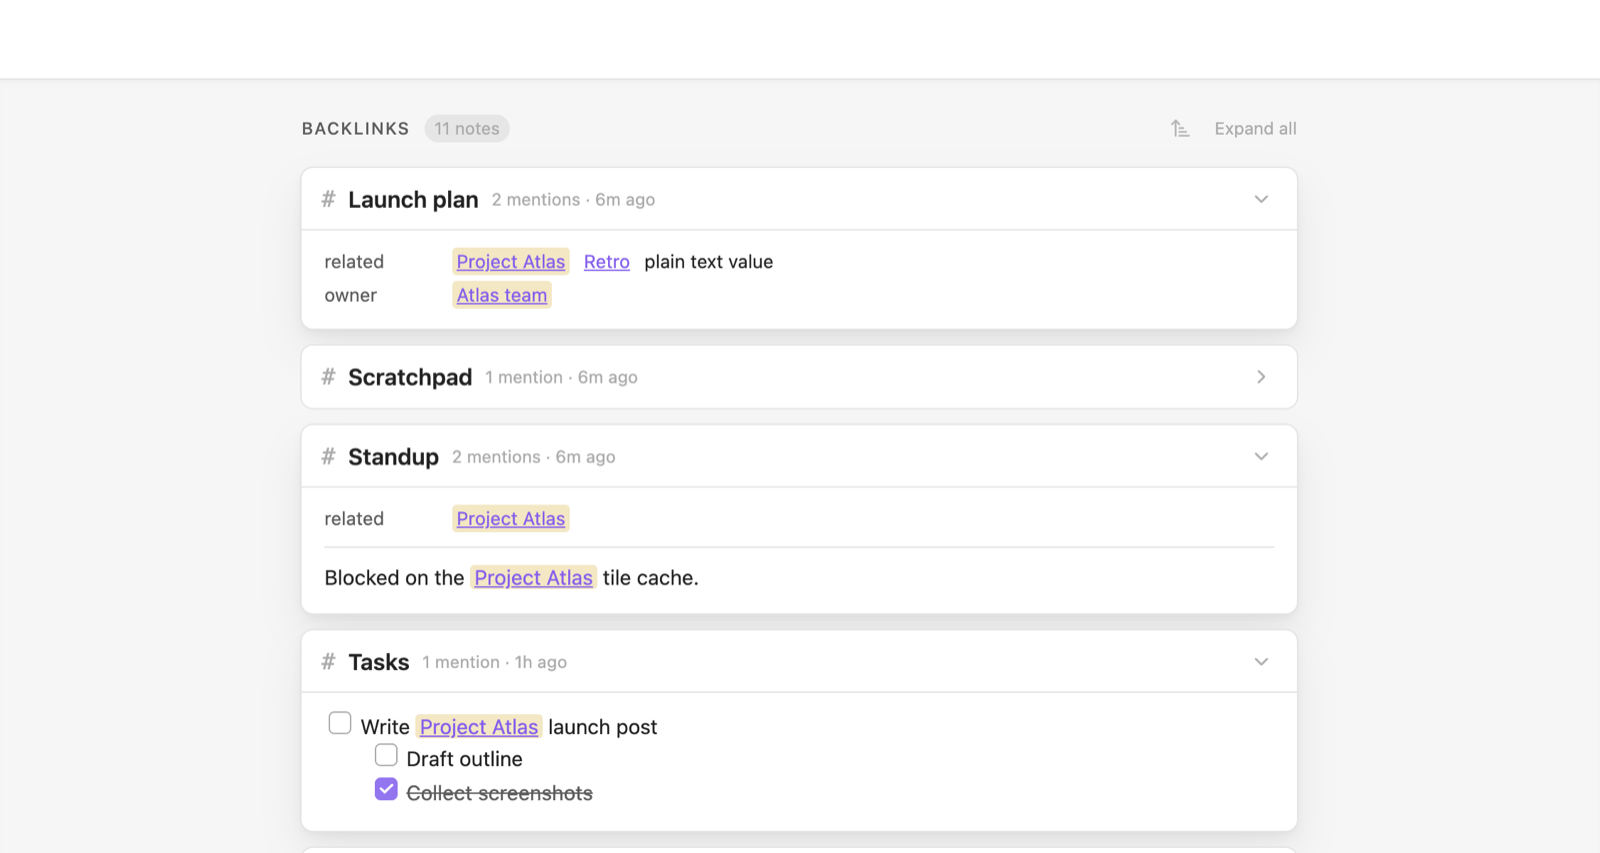
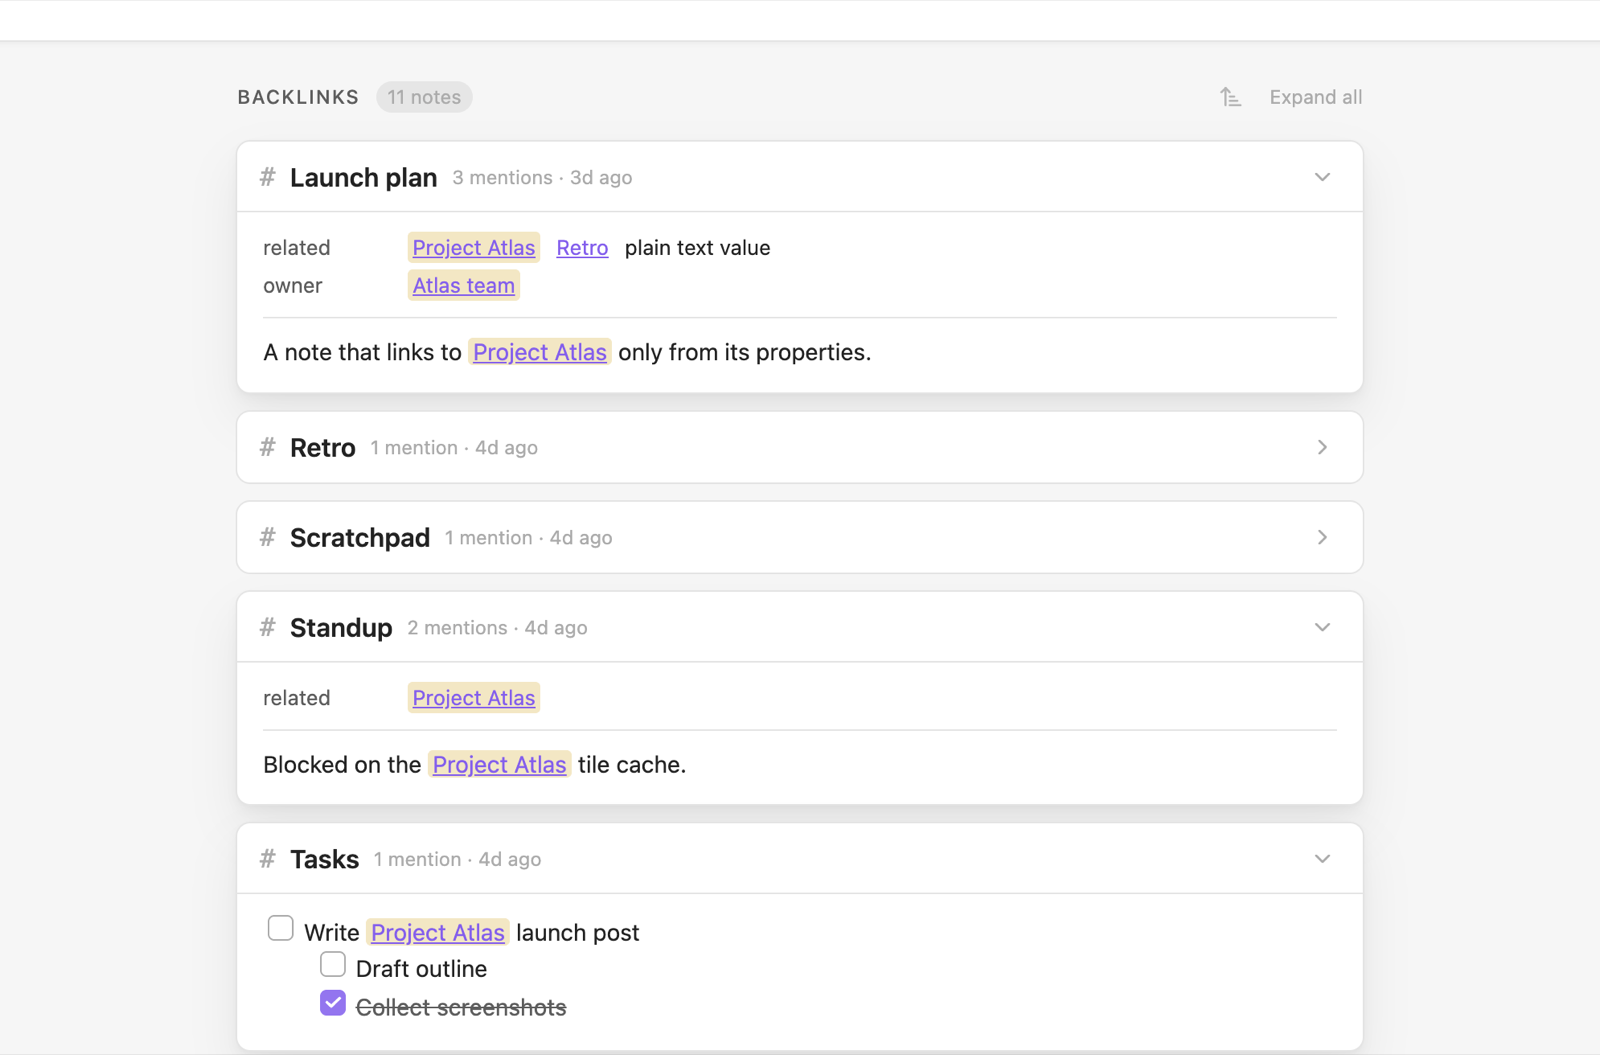
Update the README for all current features
Reorganize around what the plugin shows, where it shows it, how to use
it and its settings. Cover the sidebar, mobile layout, weekly notes and
the current code layout, point installs at the community directory, and
refresh the screenshot and add one of the sidebar.

diff --git a/README.md b/README.md
@@ -1,8 +1,16 @@
 # Better Backlinks
 
-Better Backlinks adds a **Backlinks** section to the bottom of every note. Each note that links to the current note gets a card, and each card shows the **whole block** around the link as rendered markdown, not a one-line search hit.
+Better Backlinks shows each note's backlinks as cards, at the bottom of the note, in a sidebar, or both. Each note that links to the current note gets a card, and each card shows the **whole block** around the link as rendered markdown, not a one-line search hit.
 
 ![The Backlinks section under a note, with cards showing a property row, a paragraph and a task list](images/backlinks.png)
+
+It also finds notes that are related without linking: notes whose title contains this note's name, and notes that mention its name as plain text, with a button to turn each mention into a link. Daily and weekly notes can list the notes created on their day or during their week.
+
+## What it shows
+
+### Backlinks
+
+One card per linking note, however many times it links here. The card shows the block the link sits in:
 
 - A link in a **heading** shows that heading's whole section.
 - A link in a **list item** shows the item and everything nested under it. When the item is nested, its parent items appear above it, dimmed, for context.
@@ -10,78 +18,93 @@ Better Backlinks adds a **Backlinks** section to the bottom of every note. Each 
 - A link in a **property**, such as `related: "[[Project Phoenix]]"`, appears as a row at the top of the card, showing the property's name and all its values.
 - If several links fall in the same block, or one block contains another, they appear once, with every link highlighted.
 
-Notes whose **title contains this note's name** also appear, even if they never link to it. For example, `2026-09-24 Meeting with Joe` appears under the daily note `2026-09-24`. These cards show just the title, with the matching part highlighted and "title match" beside it. The name must appear as a whole word in any case, so a note called `Joe` matches `Meeting with Joe` but not `Joel's plan`. Titles identical to the note's name don't count, and neither do one-character names. If a note also links here, it gets a normal card instead.
+Each card shows how many times the note links here and when it was last modified. Links in code blocks and embeds (`![[...]]`) don't count as backlinks.
 
-### Sidebar
+### Title matches
 
-Everything above is also available in a sidebar, like Obsidian's own Backlinks pane. Open it with **Better Backlinks: Open sidebar** from the command palette, or with the ribbon icon. It opens in the right sidebar, and you can drag it anywhere.
+Notes whose **title contains this note's name** also appear, even if they never link to it. For example, `2026-09-24 Meeting with Joe` appears under the daily note `2026-09-24`. These cards show just the title, with the matching part highlighted.
 
-The sidebar shows the note you're working in and follows you as you switch notes. It works with the bottom section on or off: turn off **Show backlinks section** to see backlinks only in the sidebar. Collapsed cards and sort order are shared between the two, so a card you collapse in one is collapsed in the other.
+The name must appear as a whole word, in any case, so a note called `Joe` matches `Meeting with Joe` but not `Joel's plan`. Titles identical to the note's name don't count, and neither do one-character names. If a note also links here, it gets a normal backlink card instead.
 
 ### Unlinked mentions
 
-Below the backlinks, an **Unlinked mentions** group lists notes that write this note's name as plain text without linking it. For example, "Planning to do x on 2026-09-24 in the evening" appears under the daily note `2026-09-24`. Each card shows the block around the mention, with the text marked by a dashed underline. The cards start collapsed.
+An **Unlinked mentions** group lists notes that write this note's name as plain text without linking it. For example, "Planning to do x on 2026-09-24 in the evening" appears under the daily note `2026-09-24`. Each card shows the block around the mention, with the text marked by a dashed underline. The cards start collapsed.
 
-- **Link** after a mention turns that text into a link, for example `2026-09-24` becomes `[[2026-09-24]]`. Text cased differently from the note's name keeps its wording as the link's display text, so `project atlas` becomes `[[Project Atlas|project atlas]]`. Links follow your vault's link settings (wikilinks or Markdown links, and the path format).
+- **Link** after a mention turns that text into a link: `2026-09-24` becomes `[[2026-09-24]]`. Text cased differently from the note's name keeps its wording as the link's display text, so `project atlas` becomes `[[Project Atlas|project atlas]]`. Links follow your vault's link settings (wikilinks or Markdown links, and the path format).
 - **Link all** on a card links every mention in that note.
 - **Click the marked text** to jump to it in the source note.
 
-Once a note is linked, its card moves up into the backlinks. Mentions are matched the same way as titles (whole words, any case). Text inside existing links, tags, properties, code, URLs, `%% comments %%` and math is ignored. In a large vault the group fills in over a second or so after the note opens, because every note has to be read; the backlinks above it appear straight away.
+Once a note is linked, its card moves up into the backlinks. Mentions are matched like titles (whole words, any case), and text inside existing links, tags, properties, code, URLs, `%% comments %%` and math is ignored. Finding mentions means reading every note, so in a large vault this group fills in over a second or so after the note opens. The backlinks above it appear straight away.
 
-The section scrolls with the note in Live Preview, Source mode and Reading view. On a short note it sits at the bottom of the pane like a footer. It takes every colour and font from your theme, and it's hidden when a note has no backlinks.
+### Notes created on this day or this week
 
-## Installing
+Daily and weekly notes can list the notes created during their day or week, in a **Created on this day** or **Created this week** group. Both are off by default; turn them on under **Daily notes** and **Weekly notes** in the settings.
 
-**From Obsidian:** open **Settings → Community plugins → Browse**, search for **Better Backlinks**, then install and enable it. (This works once the plugin is accepted into the community directory.)
+The notes appear in the order they were created, with the time (and, on a weekly note, the weekday). Each card previews how the note starts.
 
-**Before that, with BRAT:** install the [BRAT](https://github.com/TfTHacker/obsidian42-brat) plugin, choose **Add beta plugin**, and enter `MrVersano/obsidian-better-backlinks`.
+- **Recognizing daily notes:** by default the plugin uses the date format and folder from Obsidian's Daily notes settings. If you use another plugin for daily notes, set **Date format** and **Folder** under **Daily notes**.
+- **Recognizing weekly notes:** Obsidian has no built-in weekly notes. If the Periodic Notes plugin is on with weekly notes turned on, its format and folder are used. Otherwise weekly notes are named by ISO week, such as `2026-W40`, in any folder. Either way you can set **Week format** and **Folder** under **Weekly notes**. ISO tokens (`GGGG`, `WW`) give Monday-to-Sunday weeks; locale tokens (`gggg`, `ww`) follow your locale's first day of the week.
+- **Creation dates:** a note's creation date comes from its `created` property (for example `created: 2026-09-24` or `created: 2026-09-24T09:42`) when it has one, and from the file otherwise. File dates can change when notes are synced, copied or restored; a property doesn't. You can change which property is used under **Creation dates**.
 
-**By hand:** download `main.js`, `manifest.json` and `styles.css` from the [latest release](https://github.com/MrVersano/obsidian-better-backlinks/releases/latest) into `<your vault>/.obsidian/plugins/better-backlinks/`, then enable **Better Backlinks** under **Settings → Community plugins**.
+## Where it shows
 
-Better Backlinks works on desktop and mobile and needs Obsidian 1.7.2 or later.
+### At the bottom of notes
+
+The Backlinks section sits under the note in Live Preview, Source mode and Reading view, and scrolls with it. On a short note it sits at the bottom of the pane like a footer. It's hidden when a note has nothing to show. Turn it off with **Show backlinks section** in the settings or the **Toggle backlinks section** command, or leave it out of Reading view with **Show in Reading view**.
+
+Obsidian's core Backlinks plugin can also list backlinks at the bottom of notes, which would give you two lists. To turn that off, go to **Settings → Core plugins → Backlinks** and switch off **Show backlinks at the bottom of notes**. The core Backlinks pane in the sidebar isn't affected.
+
+### In the sidebar
+
+Everything is also available in a sidebar, like Obsidian's own Backlinks pane. Open it with **Better Backlinks: Open sidebar** from the command palette, or with the ribbon icon (a stack of cards). It opens in the right sidebar, and you can drag it anywhere.
+
+![The Better Backlinks sidebar next to a note, with compact cards showing property links, a paragraph and a task list](images/sidebar.png)
+
+The sidebar shows the note you're working in and follows you as you switch notes. It works with the bottom section on or off, so you can use either or both. Collapsed cards and sort order are shared between the two.
+
+### On mobile
+
+Better Backlinks works on phones and tablets. On mobile, and in the sidebar, cards are more compact so titles have room: titles are a little smaller, and the card's details drop their words ("1 · 3h ago" instead of "1 mention · 3h ago").
+
+Everything takes its colours and fonts from your theme, in light and dark mode.
 
 ## Using it
 
 - **Click a card's title** to open that note. Cmd/Ctrl-click opens it in a new tab.
 - **Click a highlighted link** to jump to that exact spot in the source note. The link is selected and briefly flashes so you can find it.
 - **Click a highlighted property link** to open the source note with that property flashing.
-- **Tick a checkbox** in an excerpt to update the task in the source note. This is the only edit an excerpt allows.
-- **Click a card's header** to collapse or expand it, or use **Collapse all / Expand all**, which covers the backlink cards. Each card remembers its state for the note you're viewing.
-- **Hover a title or link** while holding Cmd/Ctrl to see a Page Preview popover. You can change whether the modifier is needed under Settings → Core plugins → Page preview → Better Backlinks.
-
-### Notes created on this day or this week
-
-Daily and weekly notes can list the notes created during their day or week. Both are off by default.
-
-- **Daily notes:** turn on **Show notes created on this day** under **Daily notes** in the settings. Every daily note then gets a **Created on this day** group, with each note's creation time.
-- **Weekly notes:** turn on **Show notes created this week** under **Weekly notes**. Every weekly note then gets a **Created this week** group, with each note's weekday and time.
-
-The notes appear in the order they were created. Each card previews how the note starts, and its checkboxes work like those in backlink excerpts.
-
-- **Recognizing daily notes:** by default the plugin uses the date format and folder from Obsidian's Daily notes settings. If you use another plugin for daily notes, set **Date format** and **Folder** under **Daily notes**.
-- **Recognizing weekly notes:** Obsidian has no built-in weekly notes. If the Periodic Notes plugin is on with weekly notes turned on, its format and folder are used. Otherwise weekly notes are named by ISO week, such as `2026-W40`, in any folder. Either way you can set **Week format** and **Folder** under **Weekly notes**. ISO tokens (`GGGG`, `WW`) give Monday-to-Sunday weeks; locale tokens (`gggg`, `ww`) follow your locale's first day of the week.
-- **Creation dates:** a note's creation date comes from its `created` property (for example `created: 2026-09-24` or `created: 2026-09-24T09:42`) when it has one, and from the file otherwise. File dates can change when notes are synced, copied or restored; a property doesn't. You can change which property is used under **Creation dates**.
+- **Tick a checkbox** in an excerpt to update the task in the source note. Apart from **Link** on unlinked mentions, this is the only change the plugin makes to your notes.
+- **Click a card's header** to collapse or expand it, or use **Collapse all / Expand all** for the backlink cards. Each card remembers its state for the note you're viewing.
+- **Hover a title or link** while holding Cmd/Ctrl to see a Page Preview popover. You can change whether the modifier is needed under **Settings → Core plugins → Page preview → Better Backlinks**.
 
 ### Sorting
 
-Cards are sorted by modified date, newest first, unless you choose otherwise. The sort button in the Backlinks header offers name (A to Z or Z to A), modified date and created date (newest or oldest first). The order applies to the backlinks and the unlinked mentions; blocks inside a card stay in the order they appear in the note.
+Cards are sorted by modified date, newest first, unless you choose otherwise. The sort button in the Backlinks header offers name (A to Z or Z to A), modified date and created date (newest or oldest first). The order applies to the backlinks and the unlinked mentions. Blocks inside a card stay in the order they appear in the note, and notes created on a day or week are always listed in the order they were created.
 
-The order you pick is saved for the note you're viewing. Other notes keep the default, which you can change in the plugin settings. To make a note follow the default again, choose **Use default** in its sort menu. When sorting by created date, cards show when each note was created instead of when it was modified.
+The order you pick is saved for the note you're viewing. Other notes keep the default, which you can change in the settings. To make a note follow the default again, choose **Use default** in its sort menu. When sorting by created date, cards show when each note was created instead of when it was modified.
+
+## Installing
+
+**From Obsidian:** open **Settings → Community plugins → Browse**, search for **Better Backlinks**, then install and enable it.
+
+**By hand:** download `main.js`, `manifest.json` and `styles.css` from the [latest release](https://github.com/MrVersano/obsidian-better-backlinks/releases/latest) into `<your vault>/.obsidian/plugins/better-backlinks/`, then enable **Better Backlinks** under **Settings → Community plugins**.
+
+Better Backlinks works on desktop and mobile and needs Obsidian 1.7.2 or later.
 
 ## Settings
 
 | Setting | Default | |
 | --- | --- | --- |
-| Show backlinks section | On | Also available as the **Toggle backlinks section** command. The plugin sets no hotkey; you can assign one yourself. |
+| Show backlinks section | On | Shows the section at the bottom of notes. The sidebar works either way. Also available as the **Toggle backlinks section** command, which has no hotkey unless you assign one. |
 | Default sort order | Modified (newest first) | Used by every note that hasn't been given its own order from the sort menu. |
-| Expand cards by default up to | 4 backlinks | Notes with more backlinks than this start with their cards collapsed. |
+| Expand cards by default up to | 4 | Notes with more cards than this start with them collapsed. |
 | Mentions shown per card | 3 | Further blocks sit behind "+N more mentions". The property row doesn't count toward this. |
 | Highlight matches | On | Highlights links to this note in excerpts and properties, and the matching part of title-match titles. When off, they look like ordinary links and text but still jump to the mention when clicked. |
-| Show in Reading view | On | |
+| Show in Reading view | On | Shows the bottom section in Reading view too. |
 | Include links in properties | On | Counts links in a note's properties as backlinks. Turn it off to count links in the note body only. |
 | Include title matches | On | Shows notes whose title contains this note's name, even without a link. |
 | Show unlinked mentions | On | Lists notes that mention this note's name as plain text, with buttons to link them. |
-| Excluded folders | None | Notes in these folders never appear as backlinks, for example `Templates`. One folder per line. |
+| Excluded folders | None | Notes in these folders never appear, for example `Templates`. One folder per line. |
 
 **Creation dates**
 
@@ -110,14 +133,10 @@ The order you pick is saved for the note you're viewing. Other notes keep the de
 Better Backlinks works entirely inside your vault and makes no network requests.
 
 - **Backlinks** come from Obsidian's own link index, plus the text of each linking note, read to show its excerpt.
-- **Title matches** go through the list of your notes' names to find titles that contain this note's name.
+- **Title matches** and **notes created on a day or week** go through the list of your notes, using their names, properties and file dates.
 - **Unlinked mentions** read your notes' text to find this note's name written without a link.
 
-Only these last two go through your whole vault, and only while they're turned on. Turn off **Include title matches** and **Show unlinked mentions** in the settings and the plugin reads only the notes that link to the one you're viewing. Nothing is stored outside the plugin's own settings file, and the only change it makes to your notes is when you tick a checkbox in an excerpt or choose **Link** on an unlinked mention.
-
-## Turn off Obsidian's own backlinks footer
-
-Obsidian's core Backlinks plugin can also list backlinks at the bottom of notes, which gives you two lists. To turn it off, go to **Settings → Core plugins → Backlinks** and switch off **Show backlinks at the bottom of notes**. The Backlinks pane in the sidebar is separate and not affected.
+Only those last three go through your whole vault, and only while they're turned on. With **Include title matches** and **Show unlinked mentions** off (and the daily and weekly groups left off), the plugin reads only the notes that link to the one you're viewing. Nothing is stored outside the plugin's own settings file.
 
 ## Development
 
@@ -130,15 +149,16 @@ npm run lint    # ESLint with Obsidian's plugin review rules
 
 To try a build, copy `main.js`, `manifest.json` and `styles.css` into a vault's `.obsidian/plugins/better-backlinks/` folder, or symlink this folder there. If a vault named `test-vault` sits in this folder, each build is copied into it automatically.
 
-- [src/excerpt.ts](src/excerpt.ts) decides which block to show for each link. It uses no DOM, so it can be unit-tested.
-- [src/backlink-index.ts](src/backlink-index.ts) finds the linking notes using Obsidian's metadata cache.
-- [src/view.ts](src/view.ts) builds the section, mounts it and keeps it up to date.
-- [src/main.ts](src/main.ts) is the plugin entry: events, settings, the command and saved state.
+- [src/main.ts](src/main.ts) is the plugin entry: events, commands, the sidebar view and saved state.
+- [src/panel.ts](src/panel.ts) builds the groups and cards for one note. Both places that show them host a panel: [src/view.ts](src/view.ts) at the bottom of a note, and [src/sidebar.ts](src/sidebar.ts) in the sidebar.
+- [src/backlink-index.ts](src/backlink-index.ts) finds backlinks, title matches, unlinked mentions and notes created in a period, using Obsidian's metadata cache.
+- [src/excerpt.ts](src/excerpt.ts) decides which block to show for each link. [src/unlinked.ts](src/unlinked.ts), [src/title-match.ts](src/title-match.ts), [src/periodic-notes.ts](src/periodic-notes.ts), [src/properties.ts](src/properties.ts) and [src/sort.ts](src/sort.ts) hold the other rules. None of these use the DOM, so they can be unit-tested.
+- [src/settings-tab.ts](src/settings-tab.ts) declares the settings, so they appear in Obsidian's settings search.
 
 ### Releasing
 
 1. Run `npm version patch` (or `minor` / `major`). This updates `manifest.json`, `package.json` and `versions.json`, commits, and tags the new version without a `v`, as Obsidian requires.
-2. Run `git push --follow-tags`.
+2. Run `git push --follow-tags`. Push one tag at a time: GitHub skips workflows when more than three tags arrive in one push.
 3. The Release workflow builds the plugin and publishes a GitHub release for the tag with `main.js`, `manifest.json` and `styles.css`.
 
 ## License
